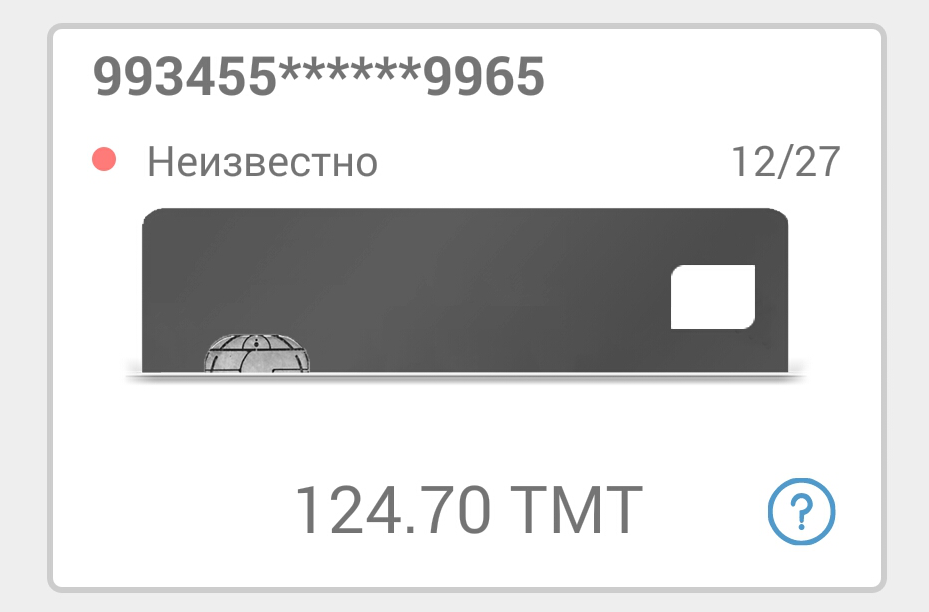
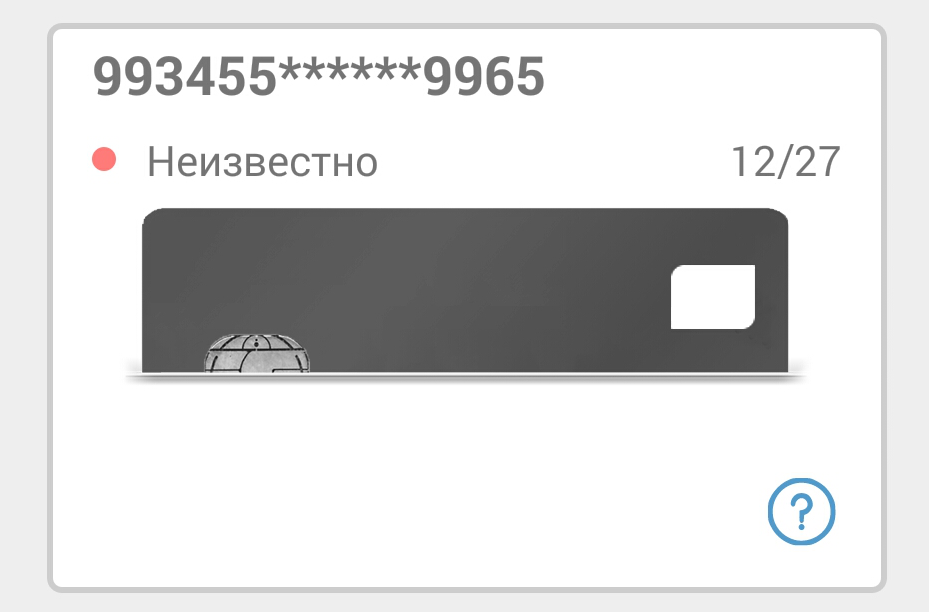
pay bl

Changed region(s): [[0.3122, 0.7761, 0.5307, 0.8693], [0.5619, 0.7761, 0.6868, 0.8693]]

diff --git a/index.html b/index.html
@@ -102,6 +102,25 @@
 
       <div class="karta__block">
         <img src="./img/karta.png" alt="">
+        <div class="balans__block">
+          <h2 class="balans">Баланс</h2>
+        </div>
+      </div>
+
+      <div class="pay__blocks">
+        <div class="block">
+          <img src="./img/pay__icon.png" alt="">
+          <h4>Платежи</h4>
+        </div>
+        <div class="block">
+          <img src="./img/perevody.png" alt="">
+          <h4>Перевод</h4>
+        </div>
+        <div class="block">
+          <img src="./img/zvezda.png" alt="">
+          <h4>Шаблоны</h4>
+        </div>
+
       </div>
 
     </div>

diff --git a/css/modal_main.css b/css/modal_main.css
@@ -34,8 +34,36 @@ body {
 .karta__block {
    height: 200px;
    margin-top: 20px;
+   position: relative;
 }
 .karta__block img {
    height: 100%;
-   margin-left: 30px;
+   margin-left: 8%;
+}
+.balans__block {
+   position: absolute;
+   bottom: 6px;
+   left: 37%;
+   width: 100%;
+   height: 40px;
+}
+.balans {
+   font-size: 23px;
+}
+
+.pay__blocks {
+   display: flex;
+   margin-top: 25px;
+}
+.block {
+   display: flex;
+   align-items: center;
+   border-top: 1px solid black;
+   border-right: 1px solid black;
+   border-bottom: 1px solid black;
+  
+}
+.block img {
+   width: 30%;
+   margin-right: 8px;
 }

diff --git a/js/script.js b/js/script.js
@@ -14,3 +14,8 @@ enterBlock.addEventListener("click",()=>{
    modalMain.style.display = "block";
    wrapper.style.display = "none"
 })
+
+const balans = document.querySelector('.balans');
+balans.addEventListener("click",()=>{
+   balans.innerHTML = "7 454.78 TMT" ;
+});
